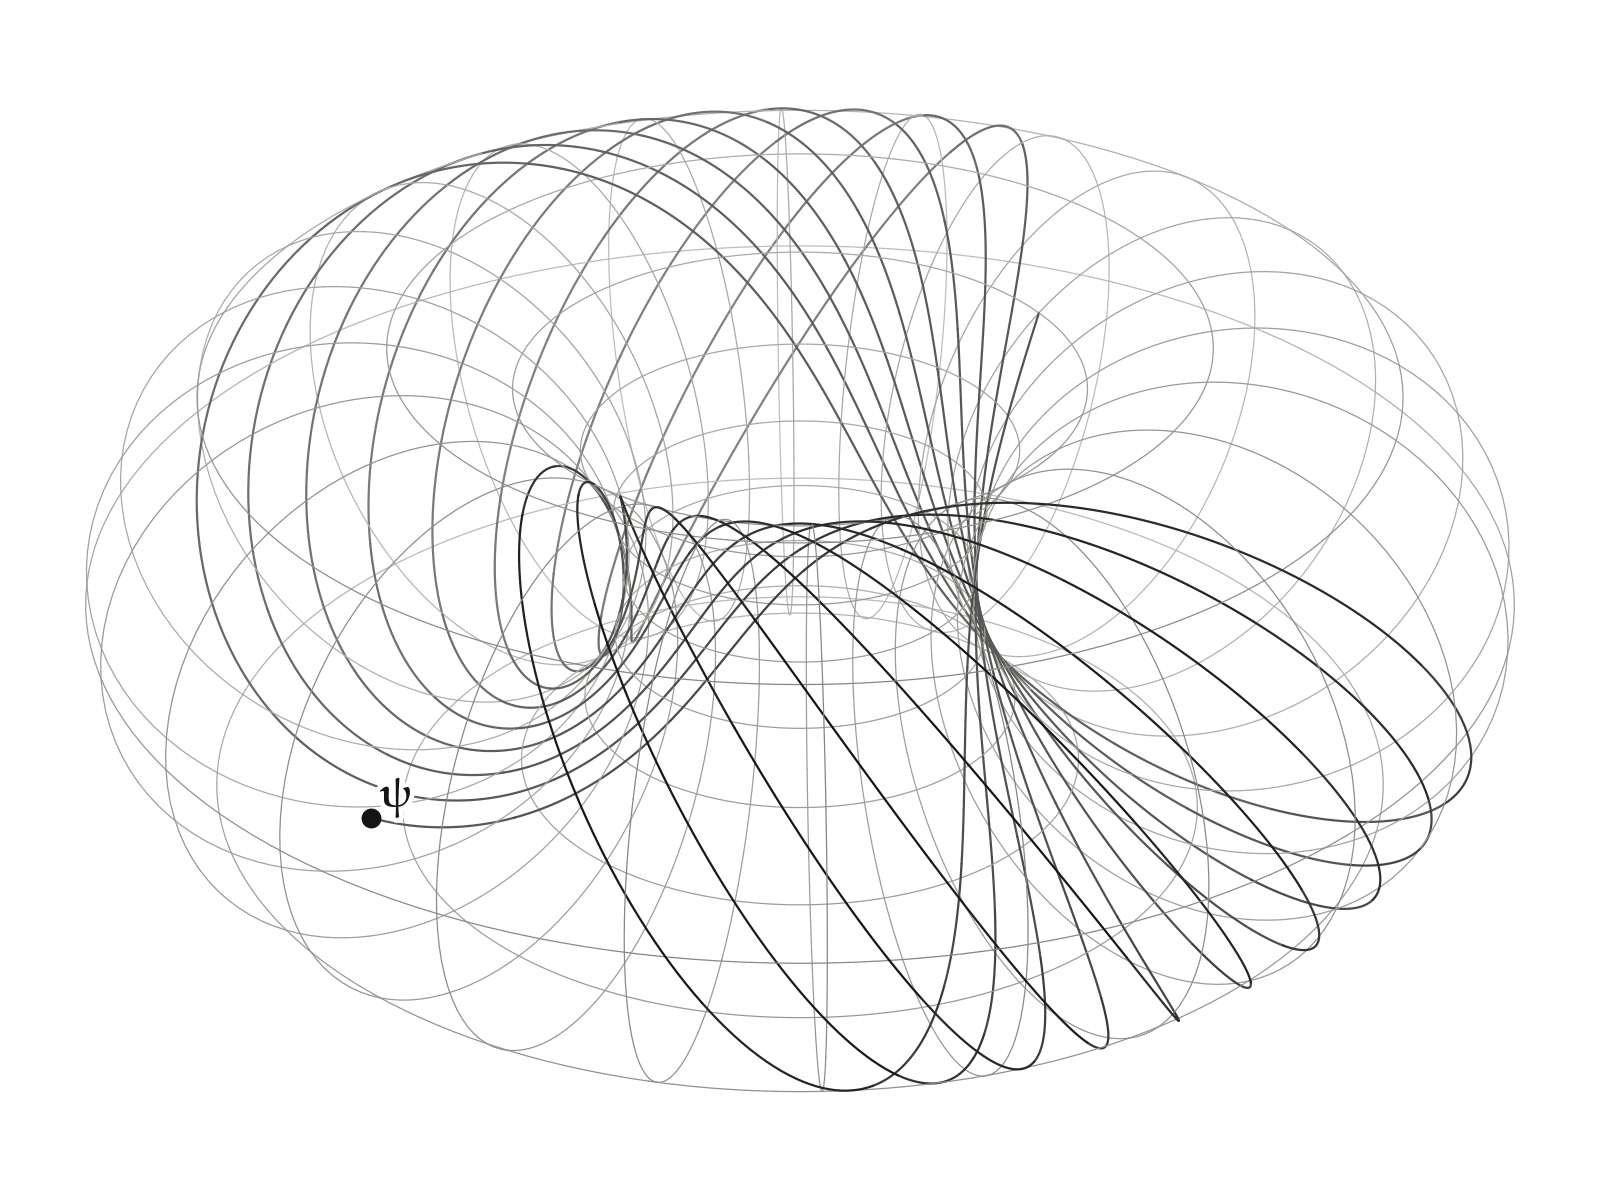
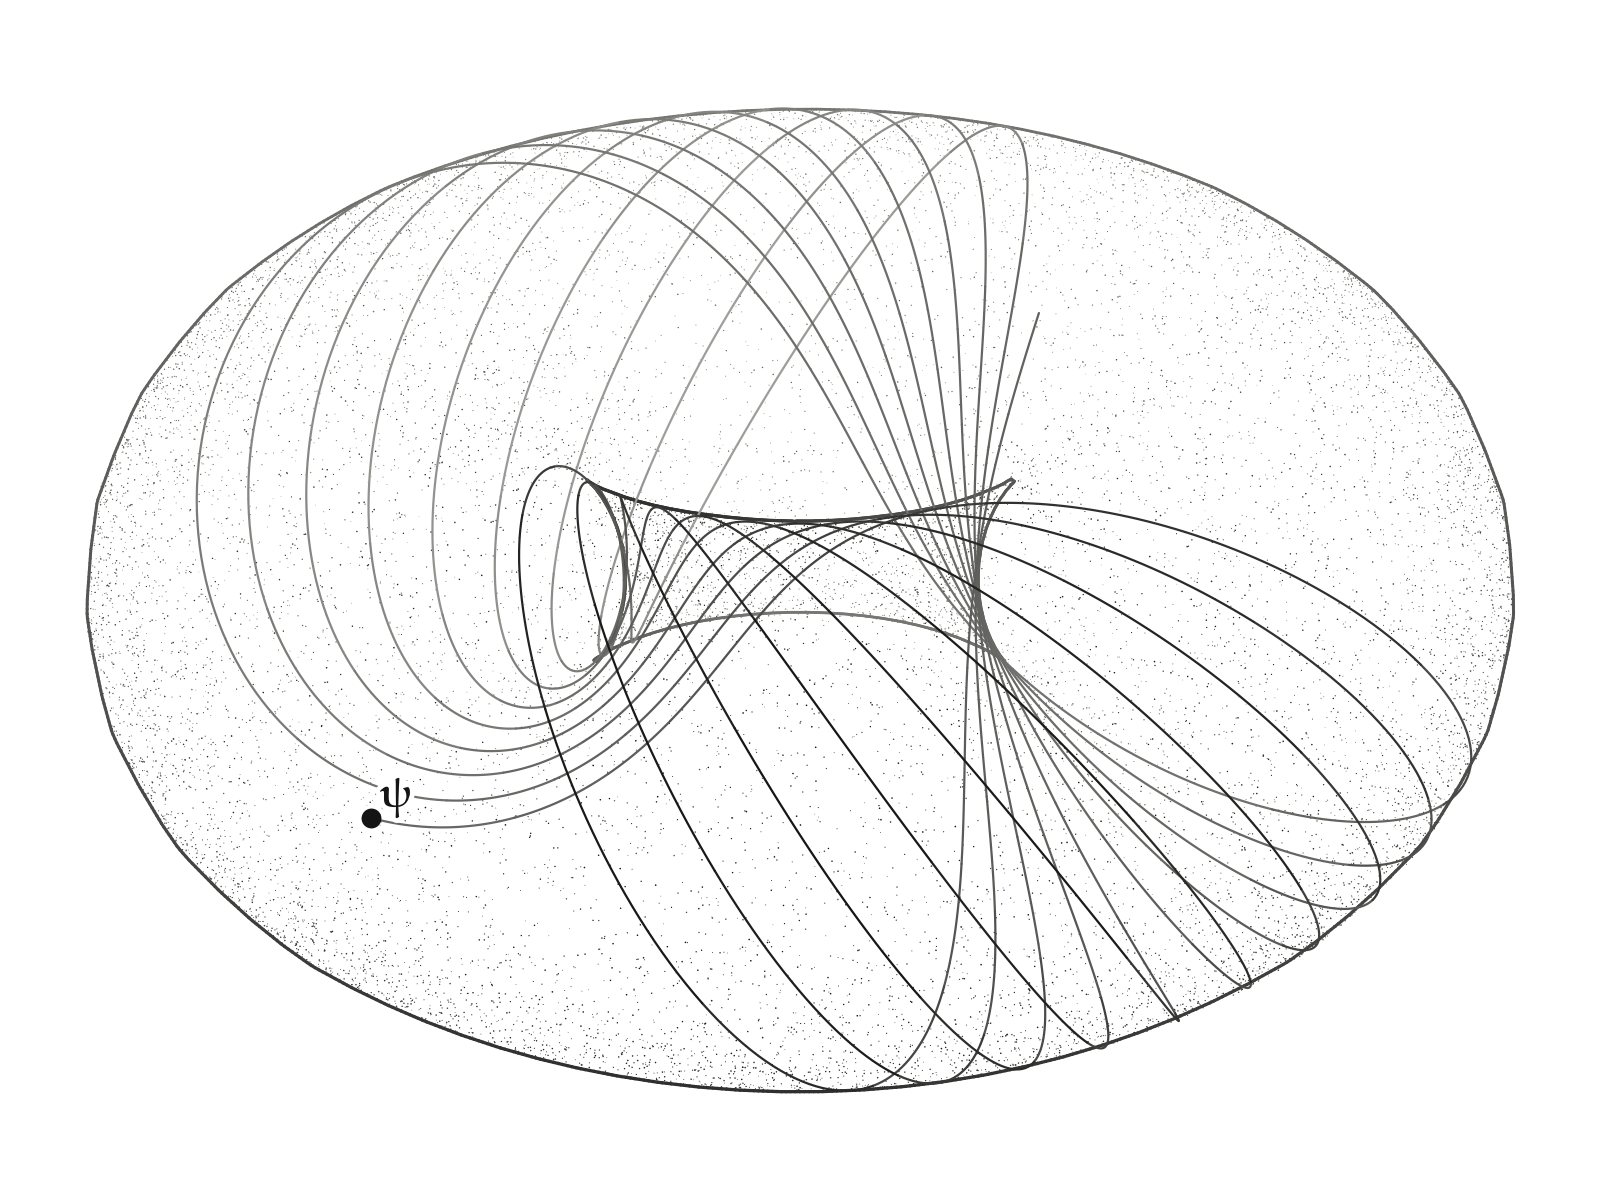
Draw the qutrit's torus of relative phases as a translucent shell
The torus was a wireframe of coordinate circles. It is now drawn in pen
and stipple, and the orbit shows through it, lighter where it runs
behind the tube.

diff --git a/src/morphis/examples/qutrit_orbit.py b/src/morphis/examples/qutrit_orbit.py
@@ -28,7 +28,9 @@ and it precesses slowly around the torus.
 The figure drops the constant ground amplitude and draws the rest, a torus on
 the 3-sphere of radius ρ = √(a_2² + a_3²) in the directions 2, 2̇, 3, 3̇, by
 stereographic projection from the pole ρ e_3̇, where it becomes a torus of
-revolution. The animation draws the state and the orbit it has traced.
+revolution, drawn translucent in pen and stipple: its contour inked and its
+body stippled, with no grid, so the orbit shows through it, lighter where it
+runs behind. The animation draws the state and the orbit it has traced.
 
 Run:
     uv run python -m morphis.examples.qutrit_orbit [output.png] [ink|parchment|chalkboard]
@@ -37,7 +39,7 @@ Run:
 
 import sys
 
-from numpy import abs as np_abs, array, cos, diag, exp, linspace, pi, sin, sqrt, stack
+from numpy import abs as np_abs, array, cos, diag, exp, linspace, sin, sqrt
 from numpy.linalg import eigh
 from numpy.typing import NDArray
 
@@ -62,15 +64,13 @@ FRAME_RATE = 30
 # Resolution of animation frames; a GIF of stippled ink grows quickly with it
 ANIMATION_DPI = 100
 
-# Coordinate circles of the torus drawn in each direction, and the samples along each
-N_CIRCLES = (24, 12)
-N_SAMPLES = 181
+# Cells of the mesh the torus's contour and stipple are drawn from, around the axis and around the tube
+MESH_SHAPE = (96, 48)
 
 CAMERA = Camera(azimuth=-32.0, elevation=30.0, distance=14.0, fov=17.0)
 
-# Graphite levels for the nearest and farthest strokes of the torus and of the orbit
-TORUS_INK = (0.45, 0.12)
-ORBIT_INK = (1.0, 0.45)
+# Graphite levels for the nearest and farthest strokes of the orbit; the far side shows through the torus
+ORBIT_INK = (1.0, 0.3)
 
 SPACE = metric(modes=3)
 
@@ -146,13 +146,6 @@ def report() -> None:
 # =============================================================================
 
 
-def depth_range(sketch: Sketch) -> tuple[float, float]:
-    """Nearest and farthest camera depth over the whole drawn torus."""
-    _, depth = sketch.camera.project(PROJECTION(TORUS(TORUS.grid(64))).reshape(-1, 3))
-
-    return depth.min(), depth.max()
-
-
 def strokes(sketch: Sketch, path: NDArray, depths, weight: str, pieces: int, levels) -> None:
     """Ink a drawn curve in short pieces, each darker the nearer it is to the camera."""
     _, depth = sketch.camera.project(path)
@@ -166,17 +159,13 @@ def strokes(sketch: Sketch, path: NDArray, depths, weight: str, pieces: int, lev
 
 def create_sketch(theme: str = "ink", t: float = DURATION) -> Sketch:
     sketch = Sketch(camera=CAMERA, size=(8.0, 6.0), seed=5, theme=theme)
-    loop = linspace(0.0, 2 * pi, N_SAMPLES)
-    depths = depth_range(sketch)
 
-    # The torus of relative phases, as faint coordinate circles
-    for fixed in linspace(0.0, 2 * pi, N_CIRCLES[0], endpoint=False):
-        circle = stack([0 * loop + fixed, loop], axis=-1)
-        strokes(sketch, PROJECTION(TORUS(circle)), depths, "hair", 24, TORUS_INK)
-
-    for fixed in linspace(0.0, 2 * pi, N_CIRCLES[1], endpoint=False):
-        circle = stack([loop, 0 * loop + fixed], axis=-1)
-        strokes(sketch, PROJECTION(TORUS(circle)), depths, "hair", 24, TORUS_INK)
+    # The torus of relative phases, translucent: a pen contour and stipple, no grid
+    mesh = TORUS.mesh(MESH_SHAPE)
+    torus = PROJECTION(mesh.vertices)
+    sketch.shell(torus, mesh.cells.cells)
+    _, depth = sketch.camera.project(torus)
+    depths = (depth.min(), depth.max())
 
     # The orbit traced so far, and the state now
     count = max(2, int(ORBIT_SAMPLES * t / DURATION))

diff --git a/docs/2_examples/3_qutrit-orbit.md b/docs/2_examples/3_qutrit-orbit.md
@@ -1,6 +1,6 @@
 # Qutrit Orbit
 
-The [conjugate-planes](2_conjugate-planes.md) qubit lives in $\mathbb{R}^4$, small enough that its two conjugate planes can be laid out side by side. A qutrit has three modes, so its state space is $\mathbb{C}^3 = \mathbb{R}^6$, and this example draws no planes at all. It draws the state's evolution through its phase space: the populations are conserved, the unobservable global phase is removed, and what is left is a 2-torus of relative phases, over which the state winds along a line that never closes. The torus sits on a 3-sphere, and a stereographic projection draws it in three dimensions as a torus of revolution. The code is the `qutrit_orbit` example:
+The [conjugate-planes](2_conjugate-planes.md) qubit lives in $\mathbb{R}^4$, small enough that its two conjugate planes can be laid out side by side. A qutrit has three modes, so its state space is $\mathbb{C}^3 = \mathbb{R}^6$, and this example draws no planes at all. It draws the state's evolution $\mathbf{ψ}(t) = e^{-iHt} \mathbf{ψ}(0)$ through its phase space, the same kind of evolution as the qubit's, with three modes instead of two: the populations are conserved, the unobservable global phase is removed, and what is left is a 2-torus of relative phases, over which the state winds along a line that never closes. The torus sits on a 3-sphere, and a stereographic projection draws it in three dimensions as a torus of revolution. The code is the `qutrit_orbit` example:
 
 ```
 uv run python -m morphis.examples.qutrit_orbit
@@ -125,17 +125,14 @@ PROJECTION = Projection.stereographic(RADIUS * basis_vector(4, EXCITED.target)) 
 
 The only things the figure gives up are the ones the physics gives up: the global phase, removed before drawing, and the constant ground amplitude. Distances on the torus are distorted by the conformal factor of the stereographic map, larger near the pole, and angles between curves are kept.
 
-The ink `Sketch` draws the torus as faint hairline coordinate circles, 24 in one direction and 12 in the other, and the orbit as a fine stroke. Ink curves have no hidden-line removal, so depth is shown by graphite level instead: each curve is inked in short pieces, each darker the nearer it is to the camera, over the range of depths of the whole drawn torus. The orbit's graphite levels run from 0.45 to 1.0 and the torus's from 0.12 to 0.45, so the orbit is never lighter than the torus at any depth.
+The ink `Sketch` draws the torus as a translucent `shell`, in pen and stipple and with no grid. Its contour, the curve where the surface turns from facing the eye to facing away, is found on the mesh of the patch from normals interpolated between vertices, and inked with a pen wobble, lighter the farther it is. Its body is stippled, densest where the surface turns edge-on to the eye and heavier on the side away from the light, with lighter dots on the far sheets. The cusped curve around the hole is part of the true contour of a torus of revolution seen from above its equator; an opaque drawing would hide part of it.
+
+Ink curves have no hidden-line removal, and on a translucent torus none is wanted: the orbit is drawn in full, and depth is shown by graphite level. Each stretch of the orbit is inked darker the nearer it is to the camera, over the range of depths of the drawn torus, so the stretches running behind the tube read as seen through it.
 
 ```python
-def strokes(sketch: Sketch, path: NDArray, depths, weight: str, pieces: int, levels) -> None:
-    _, depth = sketch.camera.project(path)
-    near, far = depths
-    bounds = linspace(0, len(path) - 1, pieces + 1).astype(int)
-    for start, stop in zip(bounds[:-1], bounds[1:], strict=True):
-        nearness = (far - depth[start : stop + 1].mean()) / (far - near)
-        level = levels[1] + (levels[0] - levels[1]) * nearness
-        sketch.curve(path[start : stop + 1], weight=weight, level=float(level))
+mesh = TORUS.mesh(MESH_SHAPE)
+torus = PROJECTION(mesh.vertices)
+sketch.shell(torus, mesh.cells.cells)
 
 orbit = PROJECTION(TORUS(phases(linspace(0.0, t, count))))
 strokes(sketch, orbit, depths, "fine", max(1, count // 25), ORBIT_INK)
@@ -145,7 +142,7 @@ sketch.label(r"$\mathbf{ψ}$", orbit[-1], offset=(9, 7), size=15)
 
 The still shows the whole run, 60 time units, with the state at its end.
 
-![The torus of relative phases drawn as faint coordinate circles of a torus of revolution, wound by the dark orbit of the state, which nearly follows the curve that turns twice around the tube for each turn around the axis](../../figures/qutrit-orbit/qutrit-orbit.png)
+![The torus of relative phases drawn translucent in pen and stipple as a torus of revolution, wound by the dark orbit of the state, which nearly follows the curve that turns twice around the tube for each turn around the axis](../../figures/qutrit-orbit/qutrit-orbit.png)
 
 ## The Animation
 

diff --git a/docs/5_design/4_visuals_architecture.md b/docs/5_design/4_visuals_architecture.md
@@ -219,7 +219,7 @@ sketch.vector(e_a + f_b, label="$ψ$")
 sketch.save("figures/example.png")
 ```
 
-**Marks.** `space`, `plane` (stippled parallelogram with a dashed grid), `vector` (pen arrowhead, optional label beside the shaft midpoint), `line` (dashed construction line), `circle` (circle or arc in a plane, optional arrow), `curve` (polyline through points or a lot-shaped `Vector`, solid or dotted), `point`, and `label`. Marks are recorded in drawing coordinates and rendered only on `save`/`render`, so page bounds, stroke scale, and depth order come from the whole figure. Order is by layer (space, planes, construction lines and curves, vectors, points, labels), then far to near.
+**Marks.** `space`, `plane` (stippled parallelogram with a dashed grid), `vector` (pen arrowhead, optional label beside the shaft midpoint), `line` (dashed construction line), `circle` (circle or arc in a plane, optional arrow), `curve` (polyline through points or a lot-shaped `Vector`, solid or dotted), `shell` (a translucent mesh in pen and stipple: its contour inked, lighter with depth, and its body stippled densest where it turns edge-on, with no grid), `surface` (an opaque shaded mesh painted far to near), `point`, and `label`. Marks are recorded in drawing coordinates and rendered only on `save`/`render`, so page bounds, stroke scale, and depth order come from the whole figure. Order is by layer (space, planes, construction lines and curves, vectors, points, labels), then far to near.
 
 **Organic space.** `OrganicSpace` is a star-shaped surface whose radius along a unit direction u is `1 + lumpiness · Σ a_k cos(π f_k (u · d_k) + φ_k) / Σ a_k`, with seeded random directions d_k, frequencies f_k up to `detail`, phases φ_k, and amplitudes a_k ∝ 1/f_k. It is then scaled per axis by `stretch` and by `size`. The silhouette is computed for the camera by projecting a Fibonacci-spiral sampling of the surface and keeping the farthest point at each angle about the projected center, so it stays correct as the camera moves. Shading is rim stipple: dot density falls off exponentially inward from the silhouette and is heavier on a chosen shadow side.
 
